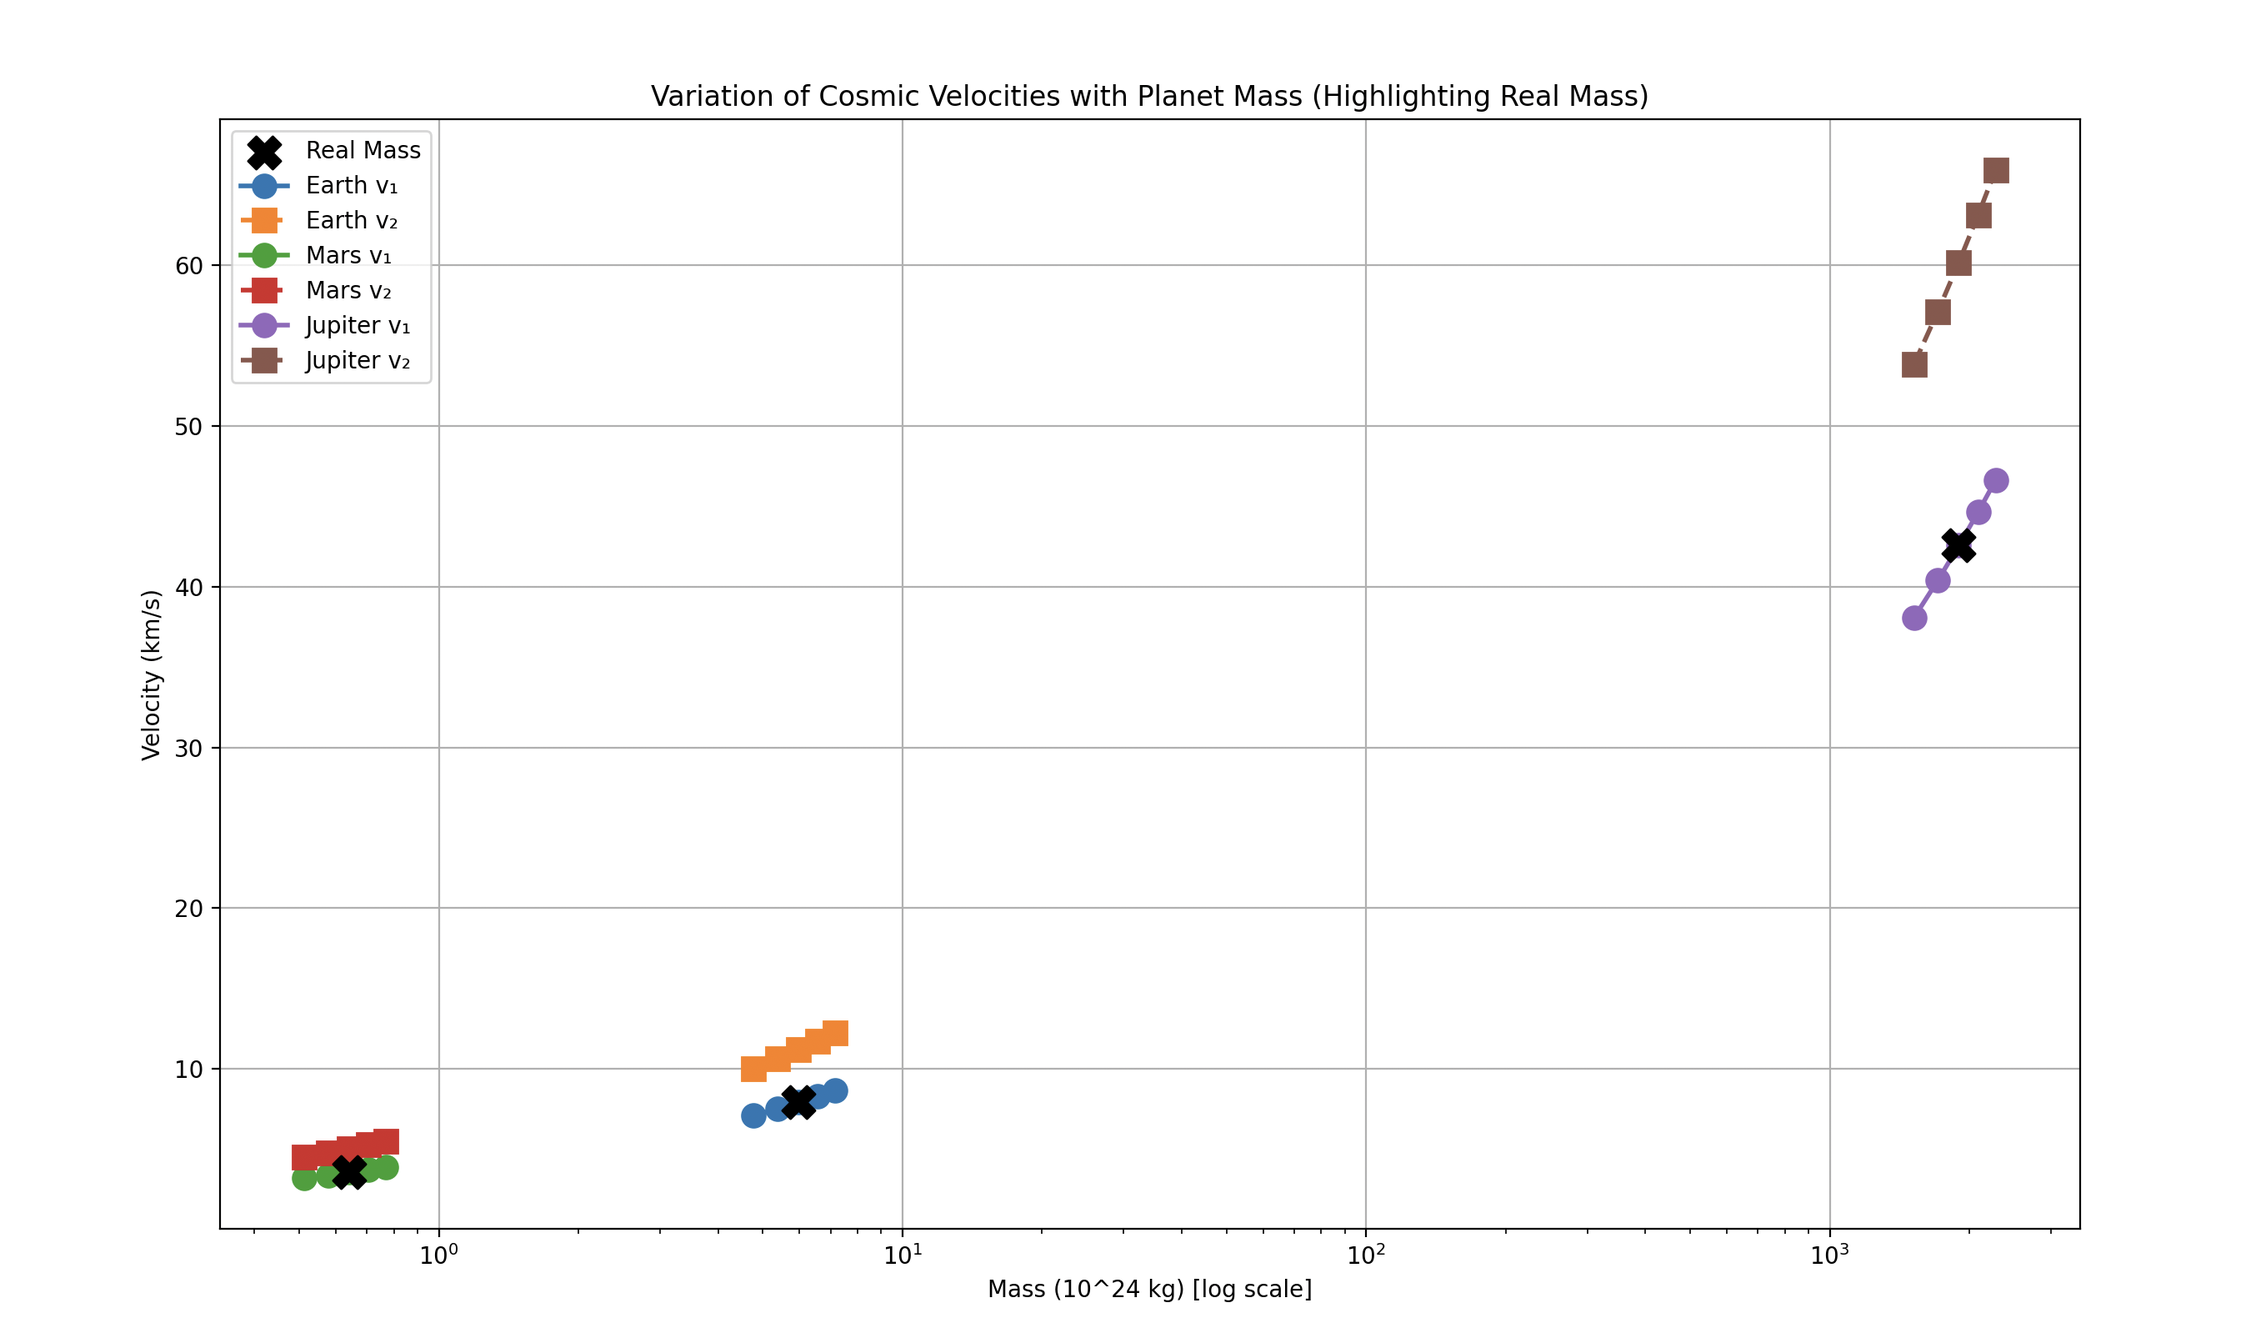
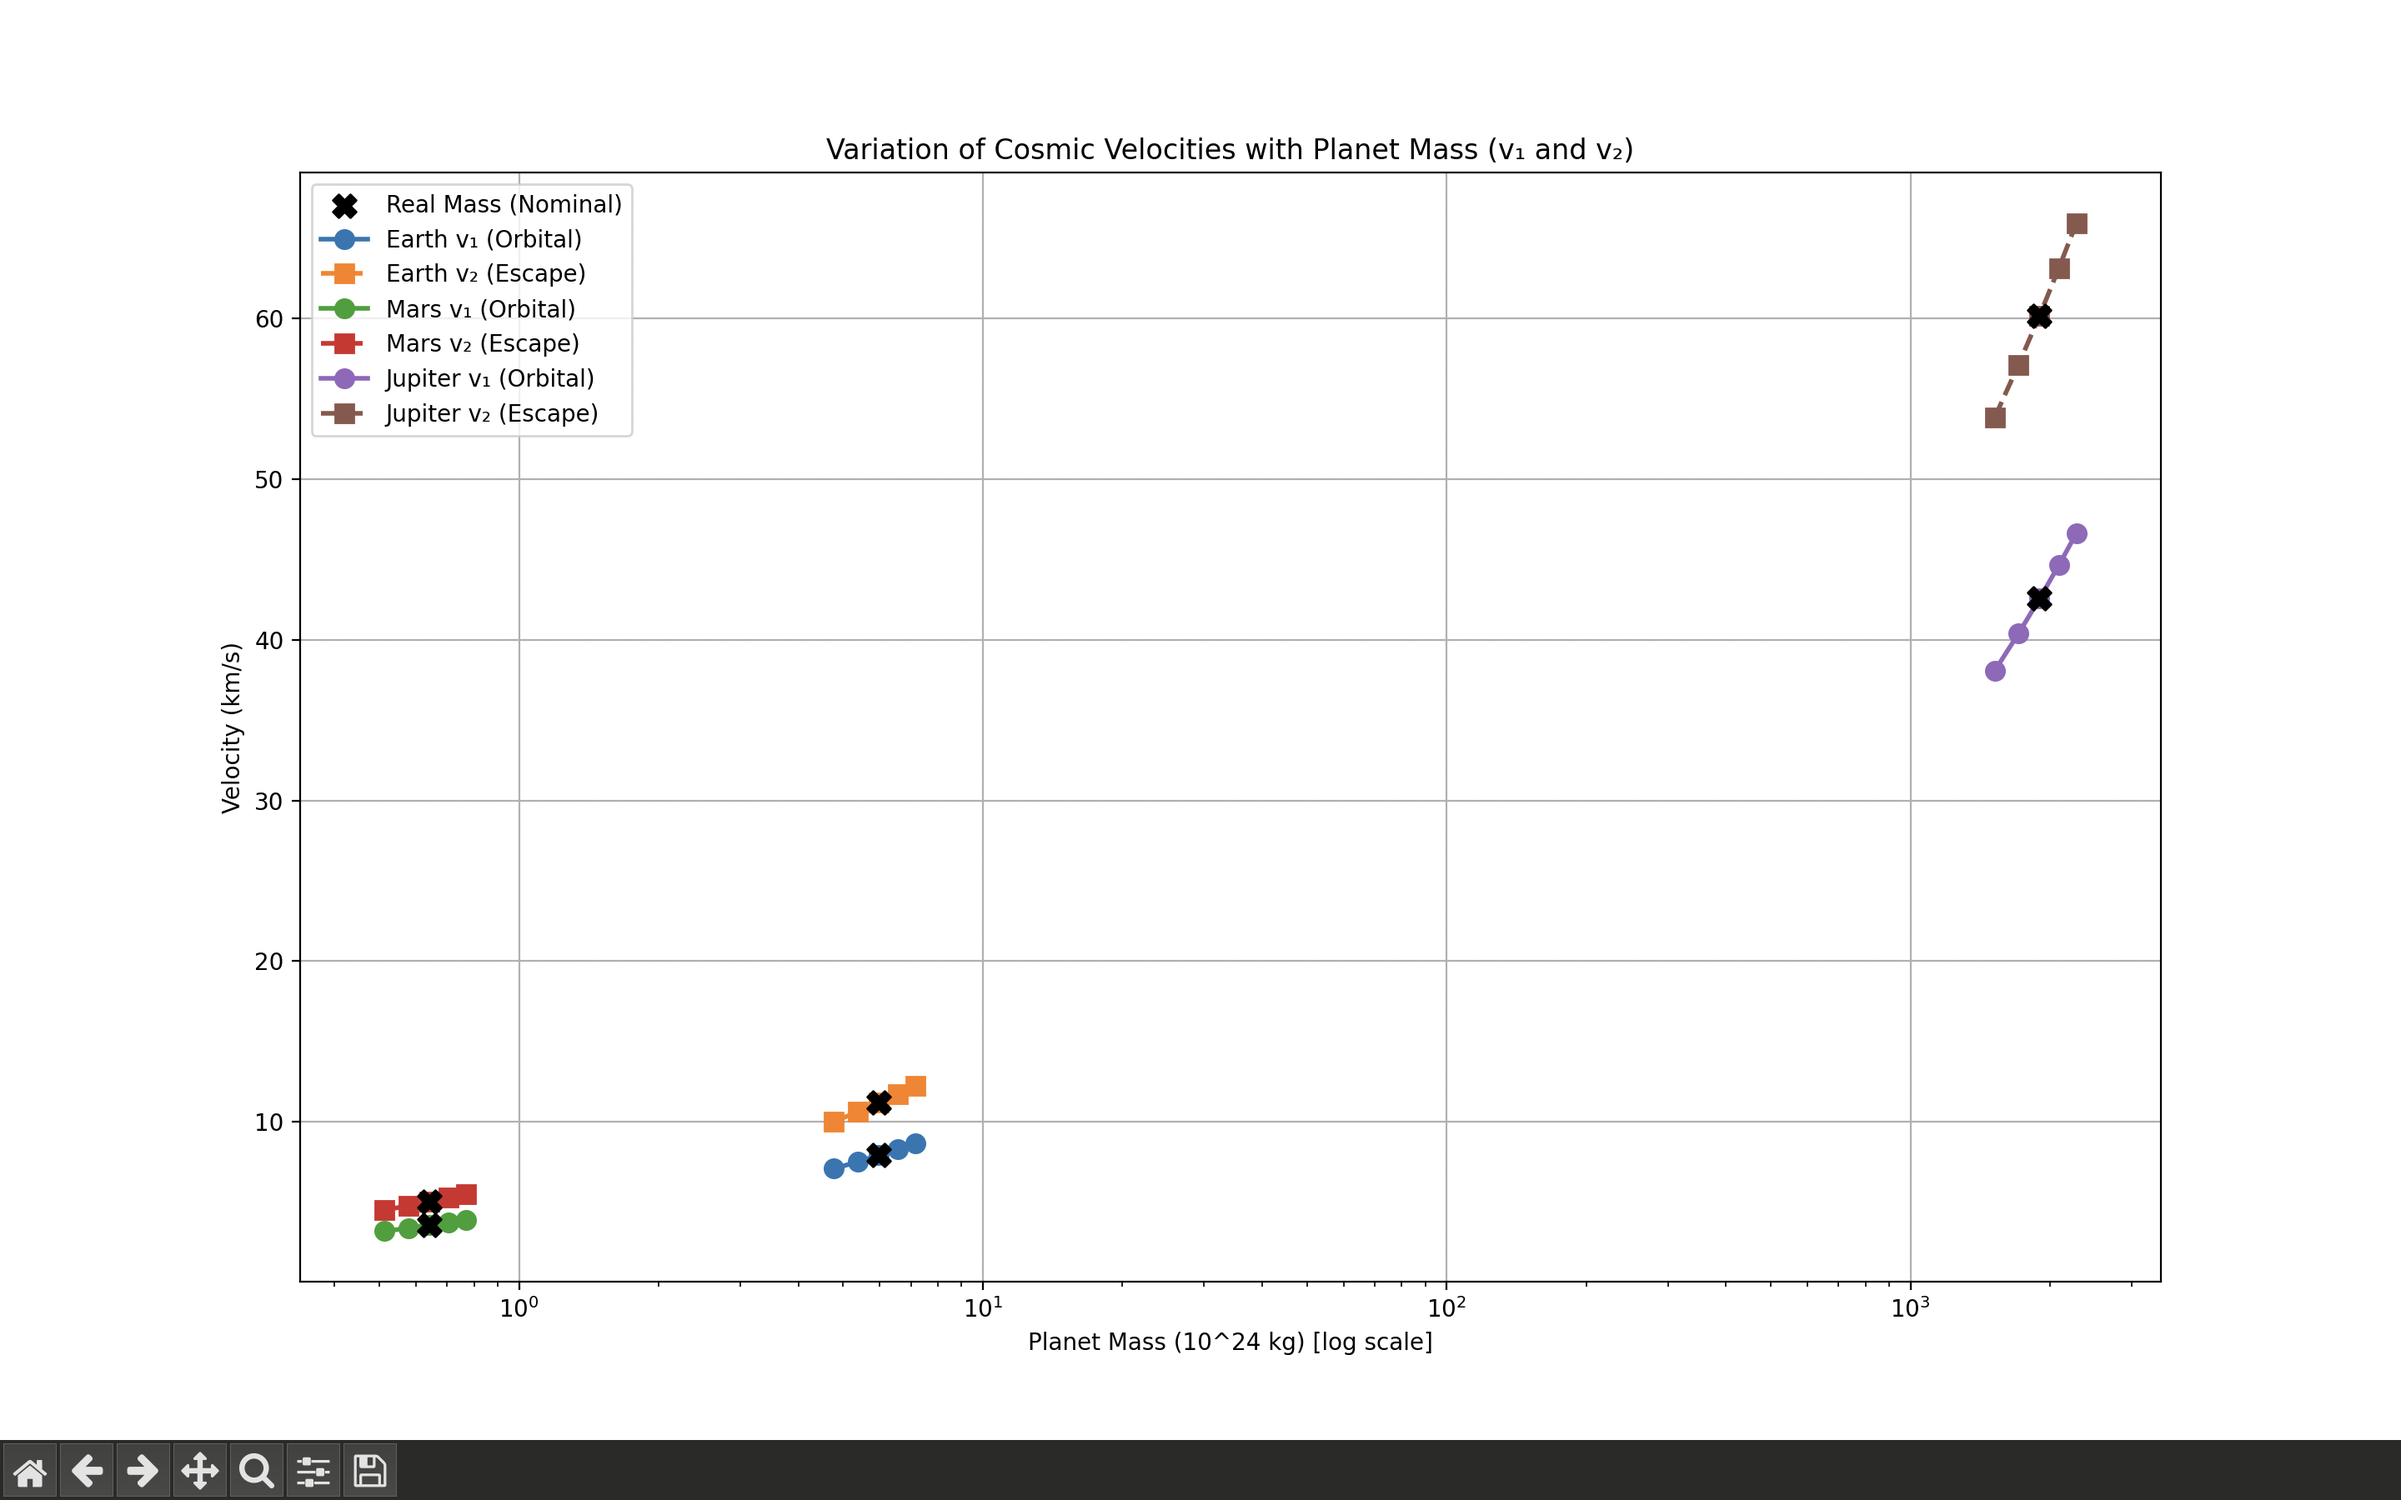
Updated code and output for new simulation.

diff --git a/docs/1 Physics/2 Gravity/Problem_2.md b/docs/1 Physics/2 Gravity/Problem_2.md
@@ -220,82 +220,107 @@ import math
 import numpy as np
 import matplotlib.pyplot as plt
 
-# Constants
-G = 6.67430e-11
-M_sun = 1.989e30
+"""
+This script varies each planet's mass from 80% to 120% of its nominal (real) mass
+and plots two key velocities:
 
+1) v₁ (Orbital) = √(GM/R), the speed for a circular orbit near the surface.
+2) v₂ (Escape) = √(2GM/R), the speed required to escape the planet's gravity.
+
+We highlight the real (nominal) mass point on BOTH v₁ and v₂ with black 'X' markers,
+but we do not show any arrow/text annotations. All other points are hypothetical.
+"""
+
+# Constants
+G = 6.67430e-11         # Gravitational constant [m^3 kg^-1 s^-2]
+M_sun = 1.989e30        # Mass of the Sun [kg] - not directly used here
+
+# Planetary parameters
 bodies = {
     'Earth': {
         'mass': 5.972e24,
-        'radius': 6.371e6,
-        'orbital_radius': 1.496e11
+        'radius': 6.371e6
     },
     'Mars': {
         'mass': 6.4171e23,
-        'radius': 3.3895e6,
-        'orbital_radius': 2.279e11
+        'radius': 3.3895e6
     },
     'Jupiter': {
         'mass': 1.898e27,
-        'radius': 6.9911e7,
-        'orbital_radius': 7.785e11
+        'radius': 6.9911e7
     }
 }
 
+# Range of mass factors (80% to 120% of nominal)
 mass_factors = np.array([0.8, 0.9, 1.0, 1.1, 1.2])
+
 plt.figure(figsize=(12, 7))
 
+# We'll only add the 'Real Mass' label once in the legend
 real_mass_label_added = False
 
 for planet, params in bodies.items():
     nominal_mass = params['mass']
     radius = params['radius']
     
-    v1_values = []
-    v2_values = []
+    # Arrays for v₁ and v₂ over the specified mass factors
+    v1_values = []  # v₁ (Orbital)
+    v2_values = []  # v₂ (Escape)
     
     for factor in mass_factors:
         mass = factor * nominal_mass
-        v1 = math.sqrt(G * mass / radius)      # First cosmic velocity
-        v2 = math.sqrt(2 * G * mass / radius)  # Second cosmic velocity
-        v1_values.append(v1 / 1000)  # convert to km/s
-        v2_values.append(v2 / 1000)  # convert to km/s
+        v1 = math.sqrt(G * mass / radius)       # m/s
+        v2 = math.sqrt(2 * G * mass / radius)   # m/s
+        v1_values.append(v1 / 1000)  # Convert to km/s
+        v2_values.append(v2 / 1000)  # Convert to km/s
 
+    # x-axis in units of 10^24 kg
     x_values = mass_factors * nominal_mass / 1e24
-
-    # Increase marker size (markersize) and line thickness (linewidth)
-    plt.plot(x_values, v1_values, marker='o', linestyle='-', 
-             markersize=10, linewidth=2, label=f'{planet} v₁')
-    plt.plot(x_values, v2_values, marker='s', linestyle='--', 
-             markersize=10, linewidth=2, label=f'{planet} v₂')
     
-    # Add a black 'X' for the real mass on v1
-    real_idx = np.where(mass_factors == 1.0)[0][0]
-    real_mass_x = x_values[real_idx]
-    real_mass_v1 = v1_values[real_idx]
+    # Plot v₁ (Orbital) and v₂ (Escape)
+    plt.plot(x_values, v1_values, marker='o', linestyle='-', 
+             markersize=8, linewidth=2, label=f'{planet} v₁ (Orbital)')
+    plt.plot(x_values, v2_values, marker='s', linestyle='--', 
+             markersize=8, linewidth=2, label=f'{planet} v₂ (Escape)')
+
+    # Find the index for the nominal mass (factor=1.0)
+    idx_nom = np.where(mass_factors == 1.0)[0][0]
+    real_mass_x = x_values[idx_nom]
+    
+    # Extract the v₁ and v₂ values at the nominal mass
+    real_mass_v1 = v1_values[idx_nom]
+    real_mass_v2 = v2_values[idx_nom]
+    
+    # Plot black X marker on v₁ at nominal mass
     if not real_mass_label_added:
-        plt.scatter(real_mass_x, real_mass_v1, color='black', marker='X', s=200, 
-                    zorder=5, label='Real Mass')
+        # Add the label for the FIRST black X only
+        plt.scatter(real_mass_x, real_mass_v1, color='black', marker='X', s=100, zorder=5,
+                    label='Real Mass (Nominal)')
         real_mass_label_added = True
     else:
-        plt.scatter(real_mass_x, real_mass_v1, color='black', marker='X', s=200, zorder=5)
+        plt.scatter(real_mass_x, real_mass_v1, color='black', marker='X', s=100, zorder=5)
+    
+    # Plot black X marker on v₂ at nominal mass (no legend label)
+    plt.scatter(real_mass_x, real_mass_v2, color='black', marker='X', s=100, zorder=5)
 
-# Switch the x-axis to a log scale so Earth & Mars aren’t squashed by Jupiter’s large mass
+# Optional: use a log scale if masses differ by orders of magnitude
 plt.xscale('log')
 
-plt.xlabel('Mass (10^24 kg) [log scale]')
+plt.xlabel('Planet Mass (10^24 kg) [log scale]')
 plt.ylabel('Velocity (km/s)')
-plt.title('Variation of Cosmic Velocities with Planet Mass (Highlighting Real Mass)')
+plt.title('Variation of Cosmic Velocities with Planet Mass (v₁ and v₂)')
+plt.grid(True)
 
-# Draw the legend once, then reorder so "Real Mass" is placed first
+# Initial legend call
 plt.legend()
+
+# Reorder legend so 'Real Mass (Nominal)' is first
 handles, labels = plt.gca().get_legend_handles_labels()
-rm_index = labels.index('Real Mass')
+rm_index = labels.index('Real Mass (Nominal)')
 new_handles = [handles[rm_index]] + handles[:rm_index] + handles[rm_index+1:]
 new_labels = [labels[rm_index]] + labels[:rm_index] + labels[rm_index+1:]
 plt.legend(new_handles, new_labels)
 
-plt.grid(True)
 plt.show()
 ```
 
@@ -305,20 +330,20 @@ plt.show()
 
 ### Explanation of the Mass-Variation Simulation
 
-In this simulation, we consider the **first (v₁)** and **second (v₂)** cosmic velocities for Earth, Mars, and Jupiter as we vary each planet’s mass from **80%** to **120%** of its real (nominal) value. 
+In this simulation, we consider the **first $(v₁)$** and **second $(v₂)$** cosmic velocities for Earth, Mars, and Jupiter as we vary each planet’s mass from **80%** to **120%** of its real (nominal) value. 
 
 
 - **Why Change the Mass?**  
-  This is purely a **theoretical exercise**—planets don’t spontaneously gain or lose 20% of their mass in reality. Varying the mass helps us understand how strongly these orbital and escape velocities depend on a planet’s gravitational parameter \(GM\).  
+  This is purely a **theoretical exercise**—planets don’t spontaneously gain or lose 20% of their mass in reality. Varying the mass helps us understand how strongly these orbital and escape velocities depend on a planet’s gravitational parameter $GM$.  
 
 - **Real Mass Markers**  
-  We highlight each planet’s **actual** (nominal) mass with a **black “X”** on its v₁ curve. This clearly shows which data point corresponds to the **real** planet mass, while the other points are “what‑if” scenarios.
+  We highlight each planet’s **actual** (nominal) mass with a **black “$X$”** on its $v₁$ curve. This clearly shows which data point corresponds to the **real** planet mass, while the other points are “what‑if” scenarios.
 
 - **Logarithmic X-axis**  
   Because Jupiter’s mass is orders of magnitude larger than Earth’s or Mars’, we use a **log scale** on the x-axis. This prevents the smaller masses from being squashed together near zero.
 
 - **Interpretation**  
-  As the mass increases, both **v₁** and **v₂** **increase** in accordance with \(\sqrt{M}\). This explains why Jupiter’s velocities are significantly higher than Earth’s or Mars’. 
+  As the mass increases, both **v₁** and **v₂** **increase** in accordance with $\sqrt{M}$. This explains why Jupiter’s velocities are significantly higher than Earth’s or Mars’. 
 
 Overall, this exercise reveals the direct relationship between **planetary mass** and the **orbital/escape speeds** needed for spacecraft missions, while distinguishing between the **actual** planet masses (black “X”) and the **hypothetical** mass variations.
 
